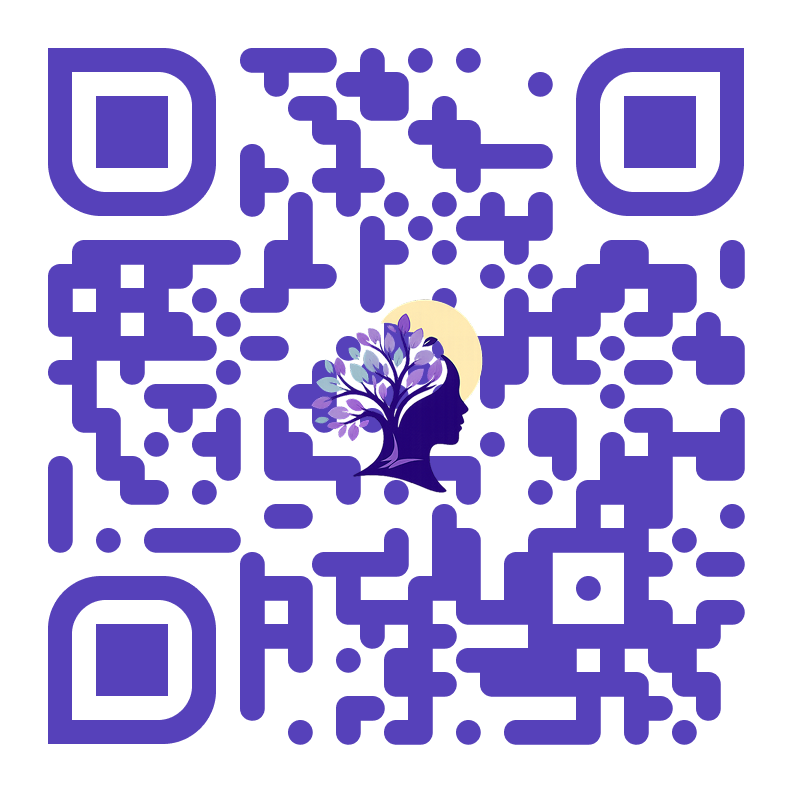
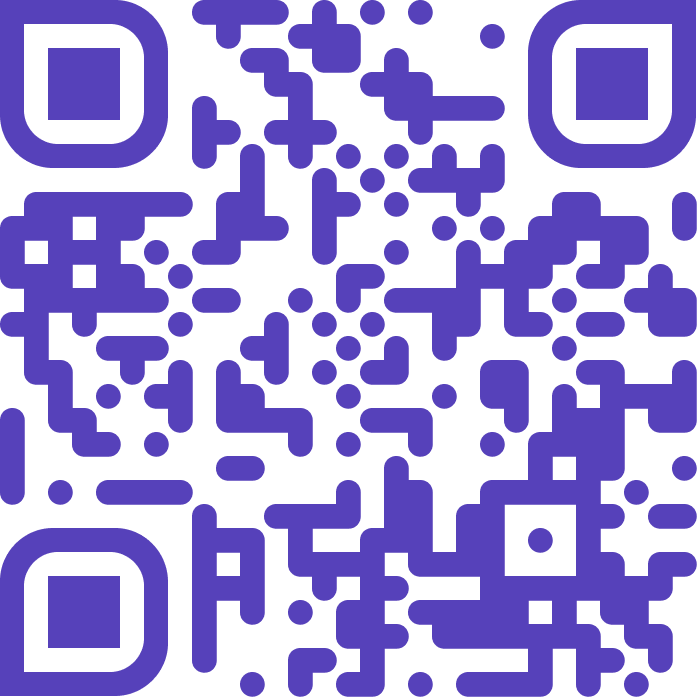
Update footer layout

diff --git a/styles.css b/styles.css
@@ -3299,3 +3299,212 @@ img {
     max-height: 300px;
   }
 }
+
+/* Footer reference layout */
+.site-footer {
+  grid-template-columns: minmax(250px, 0.22fr) minmax(0, 1fr);
+  gap: 28px;
+  width: min(1840px, calc(100% - 40px));
+  margin-bottom: 0;
+  padding: 28px 36px 30px;
+  border-radius: 30px 30px 0 0;
+  background: #563fc0;
+  box-shadow: 0 -16px 42px rgba(39, 31, 86, 0.1);
+}
+
+.social {
+  display: grid;
+  align-content: start;
+  justify-items: center;
+}
+
+.social-title {
+  min-height: 72px;
+  justify-content: flex-start;
+  gap: 14px;
+  width: 100%;
+  padding: 8px 14px;
+  border-radius: 12px;
+  background: #fff;
+  color: #715bd5;
+}
+
+.telegram-icon {
+  display: block;
+  width: 56px;
+  aspect-ratio: 1;
+  border-radius: 14px;
+  object-fit: contain;
+}
+
+.telegram-dot {
+  display: none;
+}
+
+.social-title strong {
+  font-size: clamp(23px, 1.65vw, 32px);
+  line-height: 1;
+}
+
+.qr-card {
+  position: relative;
+  width: min(184px, 78%);
+  margin-top: 64px;
+  padding: 30px 22px 14px;
+  border-radius: 28px;
+  background: #fff;
+  box-shadow: 0 16px 34px rgba(31, 22, 96, 0.18);
+}
+
+.qr-card::before {
+  display: none;
+}
+
+.qr-logo-badge {
+  position: absolute;
+  left: 50%;
+  top: -48px;
+  display: grid;
+  width: 74px;
+  aspect-ratio: 1;
+  place-items: center;
+  border-radius: 50%;
+  background: #6a54d4;
+  box-shadow: 0 10px 24px rgba(31, 22, 96, 0.28);
+  transform: translateX(-50%);
+}
+
+.qr-logo-badge img {
+  width: 68px;
+  height: 68px;
+  object-fit: contain;
+}
+
+.qr-card > img:not(.telegram-icon) {
+  width: 100%;
+}
+
+.qr-card span {
+  margin-top: 10px;
+  color: #5b47c4;
+  font-size: clamp(14px, 0.9vw, 17px);
+}
+
+.contacts {
+  min-width: 0;
+}
+
+.contacts h2 {
+  min-height: 72px;
+  margin-bottom: 26px;
+  border-radius: 12px;
+  background: #fff;
+  color: #715bd5;
+  font-size: clamp(26px, 1.9vw, 38px);
+  letter-spacing: 0;
+}
+
+.contacts h2 span {
+  display: none;
+}
+
+.contact-grid {
+  grid-template-columns: repeat(3, minmax(260px, 1fr));
+  gap: 26px 34px;
+  padding-right: 0;
+}
+
+.contact-grid p {
+  min-width: 0;
+  color: rgba(255, 255, 255, 0.9);
+  font-size: clamp(18px, 1.1vw, 22px);
+  line-height: 1.16;
+  overflow-wrap: anywhere;
+  white-space: nowrap;
+}
+
+.contact-grid p br {
+  display: block;
+}
+
+.footer-note {
+  margin-top: 22px;
+  padding: 7px 10px;
+  border-radius: 4px;
+  background: #fff;
+  color: #68626f;
+  font-size: clamp(18px, 1.16vw, 24px);
+  line-height: 1.15;
+}
+
+@media (max-width: 1180px) {
+  .site-footer {
+    grid-template-columns: 260px minmax(0, 1fr);
+    gap: 24px;
+    padding: 24px;
+  }
+
+  .contact-grid {
+    grid-template-columns: repeat(2, minmax(220px, 1fr));
+    gap: 22px 36px;
+  }
+}
+
+@media (max-width: 760px) {
+  .site-footer {
+    grid-template-columns: 1fr;
+    width: calc(100vw - 24px);
+    max-width: calc(100vw - 24px);
+    padding: 18px 14px 22px;
+    border-radius: 24px 24px 0 0;
+  }
+
+  .social-title,
+  .contacts h2 {
+    min-height: 58px;
+    justify-content: center;
+    text-align: center;
+  }
+
+  .telegram-icon {
+    width: 42px;
+    border-radius: 11px;
+  }
+
+  .social-title strong,
+  .contacts h2 {
+    font-size: 19px;
+  }
+
+  .qr-card {
+    width: min(230px, 72vw);
+    margin-top: 58px;
+    padding: 30px 24px 16px;
+  }
+
+  .qr-logo-badge {
+    top: -46px;
+    width: 70px;
+  }
+
+  .qr-logo-badge img {
+    width: 64px;
+    height: 64px;
+  }
+
+  .contact-grid {
+    grid-template-columns: 1fr;
+    gap: 16px;
+  }
+
+  .contact-grid p {
+    font-size: 16px;
+    line-height: 1.24;
+  }
+
+  .footer-note {
+    display: block;
+    font-size: 14px;
+    text-align: center;
+  }
+}

diff --git a/index.html b/index.html
@@ -680,17 +680,20 @@
     <footer class="site-footer" id="contacts">
       <div class="social">
         <div class="social-title">
-          <span class="telegram-dot">↗</span>
+          <img class="telegram-icon" src="assets/tg.png" alt="" aria-hidden="true" />
           <strong>Мы в соцсетях</strong>
         </div>
         <div class="qr-card">
+          <div class="qr-logo-badge">
+            <img src="assets/logo.png" alt="" aria-hidden="true" />
+          </div>
           <img src="assets/Group.png" alt="QR-код проекта" />
           <span>@YARKOENAST</span>
         </div>
       </div>
 
       <div class="contacts">
-        <h2><span>▯</span> Контактные данные команды:</h2>
+        <h2>Контактные данные команды:</h2>
         <div class="contact-grid">
           <p>Адамчук София Денисовна<br />89375215888</p>
           <p>Гусева Мария Евгеньевна<br />89164363321</p>
